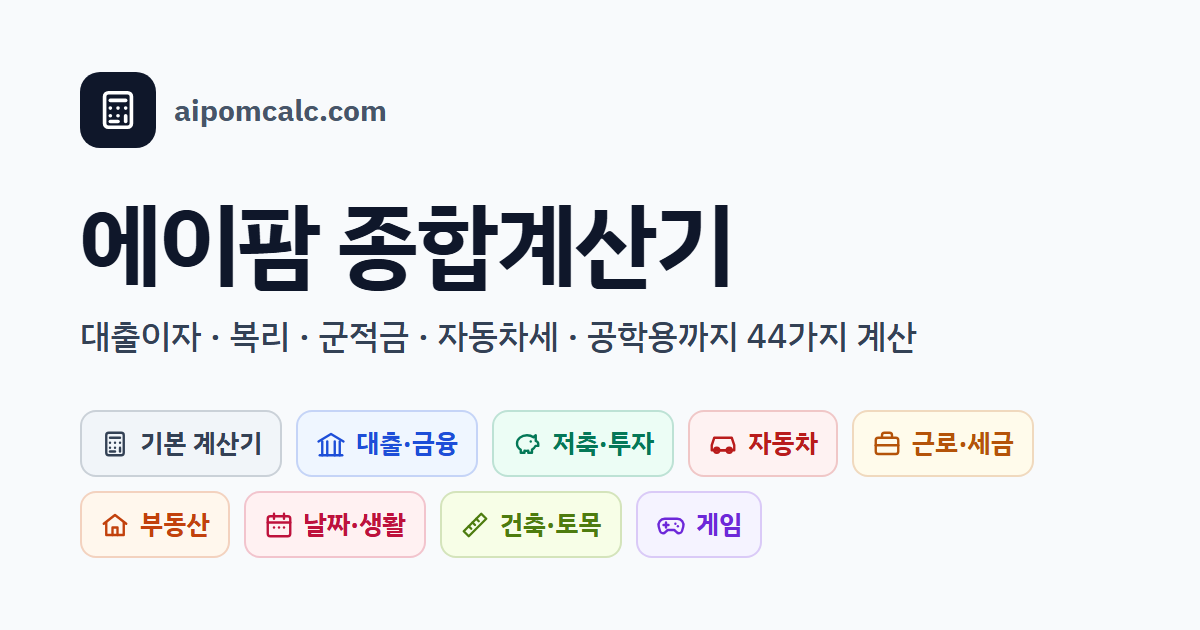
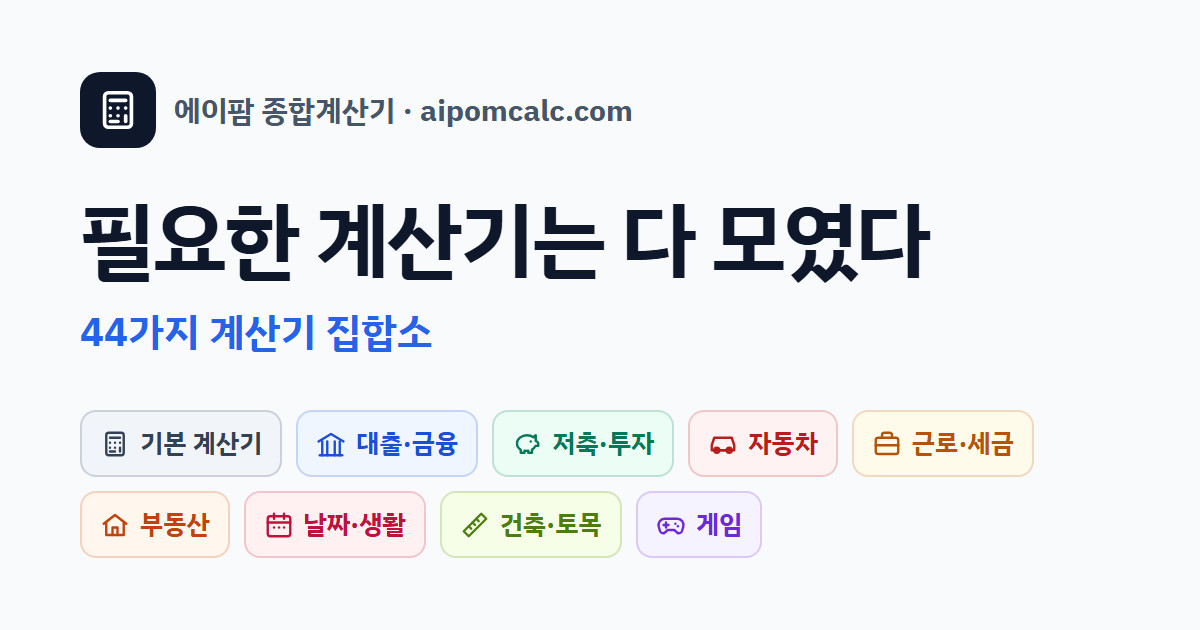
공유 썸네일·설명 '필요한 계산기는 다 모였다, n가지 계산기 집합소'(계산기 수·카테고리 자동), 네이버 서치어드바이저 확인 태그

Changed region(s): [[0.0617, 0.3016, 0.7708, 0.573], [0.1233, 0.1508, 0.5242, 0.2111]]

diff --git a/image/index.html b/image/index.html
@@ -22,7 +22,7 @@
 <link rel="preconnect" href="https://fonts.googleapis.com"><link rel="preconnect" href="https://fonts.gstatic.com" crossorigin>
 <link href="https://fonts.googleapis.com/css2?family=IBM+Plex+Mono:wght@400;600&family=IBM+Plex+Sans+KR:wght@400;500;600;700&display=swap" rel="stylesheet">
 <link rel="stylesheet" href="/assets/style.css?v=2fa217ef">
-<meta name="google-site-verification" content="8fJsMNjd0sqmaGHMqYhyhjJIt86XgNtRdXpRI8Gaa18">
+<meta name="google-site-verification" content="8fJsMNjd0sqmaGHMqYhyhjJIt86XgNtRdXpRI8Gaa18"><meta name="naver-site-verification" content="13c49a27996e51cb543a0dffee34e67dcaf40787">
 <meta name="google-adsense-account" content="ca-pub-8001197559123230">
 <script async src="https://pagead2.googlesyndication.com/pagead/js/adsbygoogle.js?client=ca-pub-8001197559123230" crossorigin="anonymous"></script>
 <script type="application/ld+json">{"@context":"https://schema.org","@graph":[{"@type":"WebApplication","name":"이미지 계산기","applicationCategory":"FinanceApplication","operatingSystem":"Web","offers":{"@type":"Offer","price":"0","priceCurrency":"KRW"},"url":"https://aipomcalc.com/image/"},{"@type":"FAQPage","mainEntity":[{"@type":"Question","name":"이미지가 어딘가에 저장되거나 전송되나요?","acceptedAnswer":{"@type":"Answer","text":"아니요. 이미지는 브라우저 안에서만 처리되고 서버로 보내지 않으며, 입력값 저장에도 포함되지 않습니다. 페이지를 닫으면 사라집니다."}},{"@type":"Question","name":"어떤 계산기를 쓸 수 있나요?","acceptedAnswer":{"@type":"Answer","text":"이미지에서 값을 읽거나 잴 수 있는 계산만 목록에 있습니다. 영수증·부가세·할인가·전기요금·FC 이적시장(숫자 읽기), 글자 수·디데이(글자·날짜 읽기), 길이·면적·경사(이미지 위에서 재기)입니다."}},{"@type":"Question","name":"숫자를 잘못 읽었어요.","acceptedAnswer":{"@type":"Answer","text":"찾은 값 중 맞는 것을 누르거나 칸에 직접 고쳐 쓰세요. 이미지에서 필요한 부분만 상자로 감싸면 그 부분만 다시 읽어 더 정확합니다."}},{"@type":"Question","name":"처음 읽을 때 왜 오래 걸리나요?","acceptedAnswer":{"@type":"Answer","text":"처음 한 번 글자 인식 엔진과 한국어 데이터를 내려받기 때문입니다. 그다음부터는 브라우저에 남아 빨라집니다."}},{"@type":"Question","name":"길이·면적은 얼마나 정확한가요?","acceptedAnswer":{"@type":"Answer","text":"정면 사진이나 사각형 기준을 쓰면 실제와 몇 % 이내로 맞는 편입니다. 점을 찍을 때 확대 창을 보며 모서리에 정확히 놓을수록 오차가 줄어듭니다."}}]},{"@type":"BreadcrumbList","itemListElement":[{"@type":"ListItem","position":1,"name":"홈","item":"https://aipomcalc.com/"},{"@type":"ListItem","position":2,"name":"기본 계산기","item":"https://aipomcalc.com/#basic"},{"@type":"ListItem","position":3,"name":"이미지 계산기","item":"https://aipomcalc.com/image/"}]}]}</script>

diff --git a/index.html b/index.html
@@ -14,7 +14,7 @@
 <meta name="description" content="대출이자, 적금·복리, 군적금, 자동차 할부·자동차세, 퇴직금, 디데이, 공학용 계산기까지 생활 계산을 한곳에서. 그래프와 표로 바로 비교하세요.">
 <link rel="canonical" href="https://aipomcalc.com/">
 <meta property="og:type" content="website"><meta property="og:site_name" content="에이팜 종합계산기"><meta property="og:locale" content="ko_KR">
-<meta property="og:title" content="에이팜 종합계산기 — 대출이자·적금·복리·군적금·자동차세·퇴직금·공학용 계산기"><meta property="og:description" content="대출이자, 적금·복리, 군적금, 자동차 할부·자동차세, 퇴직금, 디데이, 공학용 계산기까지 생활 계산을 한곳에서. 그래프와 표로 바로 비교하세요."><meta property="og:url" content="https://aipomcalc.com/">
+<meta property="og:title" content="에이팜 종합계산기 — 대출이자·적금·복리·군적금·자동차세·퇴직금·공학용 계산기"><meta property="og:description" content="필요한 계산기는 다 모였다, 44가지 계산기 집합소"><meta property="og:url" content="https://aipomcalc.com/">
 <meta property="og:image" content="https://aipomcalc.com/assets/og.png"><meta property="og:image:alt" content="홈"><meta property="og:image:width" content="1200"><meta property="og:image:height" content="630"><meta name="twitter:card" content="summary_large_image">
 <link rel="icon" href="/assets/icon.svg" type="image/svg+xml"><link rel="icon" href="/assets/icon-32.png" sizes="32x32"><link rel="apple-touch-icon" href="/assets/icon-180.png">
 <link rel="manifest" href="/manifest.webmanifest"><meta name="theme-color" content="#0f172a">
@@ -22,7 +22,7 @@
 <link rel="preconnect" href="https://fonts.googleapis.com"><link rel="preconnect" href="https://fonts.gstatic.com" crossorigin>
 <link href="https://fonts.googleapis.com/css2?family=IBM+Plex+Mono:wght@400;600&family=IBM+Plex+Sans+KR:wght@400;500;600;700&display=swap" rel="stylesheet">
 <link rel="stylesheet" href="/assets/style.css?v=2fa217ef">
-<meta name="google-site-verification" content="8fJsMNjd0sqmaGHMqYhyhjJIt86XgNtRdXpRI8Gaa18">
+<meta name="google-site-verification" content="8fJsMNjd0sqmaGHMqYhyhjJIt86XgNtRdXpRI8Gaa18"><meta name="naver-site-verification" content="13c49a27996e51cb543a0dffee34e67dcaf40787">
 <meta name="google-adsense-account" content="ca-pub-8001197559123230">
 <script async src="https://pagead2.googlesyndication.com/pagead/js/adsbygoogle.js?client=ca-pub-8001197559123230" crossorigin="anonymous"></script>
 <script type="application/ld+json">{"@context":"https://schema.org","@type":"WebSite","name":"에이팜 종합계산기","url":"https://aipomcalc.com/"}</script>

diff --git a/fc-transfer/index.html b/fc-transfer/index.html
@@ -22,7 +22,7 @@
 <link rel="preconnect" href="https://fonts.googleapis.com"><link rel="preconnect" href="https://fonts.gstatic.com" crossorigin>
 <link href="https://fonts.googleapis.com/css2?family=IBM+Plex+Mono:wght@400;600&family=IBM+Plex+Sans+KR:wght@400;500;600;700&display=swap" rel="stylesheet">
 <link rel="stylesheet" href="/assets/style.css?v=2fa217ef">
-<meta name="google-site-verification" content="8fJsMNjd0sqmaGHMqYhyhjJIt86XgNtRdXpRI8Gaa18">
+<meta name="google-site-verification" content="8fJsMNjd0sqmaGHMqYhyhjJIt86XgNtRdXpRI8Gaa18"><meta name="naver-site-verification" content="13c49a27996e51cb543a0dffee34e67dcaf40787">
 <meta name="google-adsense-account" content="ca-pub-8001197559123230">
 <script async src="https://pagead2.googlesyndication.com/pagead/js/adsbygoogle.js?client=ca-pub-8001197559123230" crossorigin="anonymous"></script>
 <script type="application/ld+json">{"@context":"https://schema.org","@graph":[{"@type":"WebApplication","name":"FC 온라인 이적시장 수수료 계산기","applicationCategory":"FinanceApplication","operatingSystem":"Web","offers":{"@type":"Offer","price":"0","priceCurrency":"KRW"},"url":"https://aipomcalc.com/fc-transfer/"},{"@type":"FAQPage","mainEntity":[{"@type":"Question","name":"FC 온라인 이적시장 수수료는 몇 %인가요?","acceptedAnswer":{"@type":"Answer","text":"기본 수수료는 판매 금액의 40%입니다. 1억 BP에 팔리면 4,000만 BP가 수수료로 빠지고 6,000만 BP를 받습니다."}},{"@type":"Question","name":"PC방과 TOP CLASS 할인은 같이 받을 수 있나요?","acceptedAnswer":{"@type":"Answer","text":"네. 프리미엄 PC방 30%와 TOP CLASS 20%가 더해져 기본 수수료의 50%가 할인됩니다. 1억 BP 판매라면 수수료가 2,000만 BP로 줄어 8,000만 BP를 받습니다."}},{"@type":"Question","name":"쿠폰을 PC방·TOP CLASS와 같이 쓰면?","acceptedAnswer":{"@type":"Answer","text":"할인율이 더해지되 합계 100%까지만 인정됩니다. 50% 할인을 받는 상태에서 50% 쿠폰을 쓰면 수수료가 0이 되고, 그보다 큰 쿠폰은 효과가 같습니다."}},{"@type":"Question","name":"최대 할인 금액은 어떻게 적용되나요?","acceptedAnswer":{"@type":"Answer","text":"쿠폰으로 깎이는 금액이 쿠폰에 적힌 최대 할인 금액을 넘으면 최대 할인 금액만큼만 깎입니다."}}]},{"@type":"BreadcrumbList","itemListElement":[{"@type":"ListItem","position":1,"name":"홈","item":"https://aipomcalc.com/"},{"@type":"ListItem","position":2,"name":"게임","item":"https://aipomcalc.com/#game"},{"@type":"ListItem","position":3,"name":"FC 온라인 이적시장 수수료 계산기","item":"https://aipomcalc.com/fc-transfer/"}]}]}</script>

diff --git a/year-end-tax/index.html b/year-end-tax/index.html
@@ -22,7 +22,7 @@
 <link rel="preconnect" href="https://fonts.googleapis.com"><link rel="preconnect" href="https://fonts.gstatic.com" crossorigin>
 <link href="https://fonts.googleapis.com/css2?family=IBM+Plex+Mono:wght@400;600&family=IBM+Plex+Sans+KR:wght@400;500;600;700&display=swap" rel="stylesheet">
 <link rel="stylesheet" href="/assets/style.css?v=2fa217ef">
-<meta name="google-site-verification" content="8fJsMNjd0sqmaGHMqYhyhjJIt86XgNtRdXpRI8Gaa18">
+<meta name="google-site-verification" content="8fJsMNjd0sqmaGHMqYhyhjJIt86XgNtRdXpRI8Gaa18"><meta name="naver-site-verification" content="13c49a27996e51cb543a0dffee34e67dcaf40787">
 <meta name="google-adsense-account" content="ca-pub-8001197559123230">
 <script async src="https://pagead2.googlesyndication.com/pagead/js/adsbygoogle.js?client=ca-pub-8001197559123230" crossorigin="anonymous"></script>
 <script type="application/ld+json">{"@context":"https://schema.org","@graph":[{"@type":"WebApplication","name":"연말정산 환급 계산기","applicationCategory":"FinanceApplication","operatingSystem":"Web","offers":{"@type":"Offer","price":"0","priceCurrency":"KRW"},"url":"https://aipomcalc.com/year-end-tax/"},{"@type":"FAQPage","mainEntity":[{"@type":"Question","name":"회사에서 받은 결과와 다른 이유는?","acceptedAnswer":{"@type":"Answer","text":"이 계산기는 보험료를 총급여로 추정하고 일부 공제를 빼고 계산합니다. 정확한 값은 1월 홈택스 연말정산 간소화 자료로 회사가 계산한 원천징수영수증에서 확인하세요."}},{"@type":"Question","name":"맞벌이면 카드를 누구에게 몰아야 하나요?","acceptedAnswer":{"@type":"Answer","text":"보통 카드 공제는 25% 문턱을 넘기 쉬운 쪽(총급여가 낮은 쪽)이 유리합니다. 다만 세율이 높은 쪽이 같은 공제로 더 많이 돌려받으니, 두 사람 값을 각각 넣어 비교해 보세요."}},{"@type":"Question","name":"결정세액이 0원이면 연금저축을 더 넣어도 되나요?","acceptedAnswer":{"@type":"Answer","text":"세액공제는 낼 세금(결정세액)까지만 빼 줍니다. 결정세액이 이미 0원이면 더 넣어도 올해 환급은 늘지 않습니다."}}]},{"@type":"BreadcrumbList","itemListElement":[{"@type":"ListItem","position":1,"name":"홈","item":"https://aipomcalc.com/"},{"@type":"ListItem","position":2,"name":"근로·세금","item":"https://aipomcalc.com/#work"},{"@type":"ListItem","position":3,"name":"연말정산 환급 계산기","item":"https://aipomcalc.com/year-end-tax/"}]}]}</script>

diff --git a/wage/index.html b/wage/index.html
@@ -22,7 +22,7 @@
 <link rel="preconnect" href="https://fonts.googleapis.com"><link rel="preconnect" href="https://fonts.gstatic.com" crossorigin>
 <link href="https://fonts.googleapis.com/css2?family=IBM+Plex+Mono:wght@400;600&family=IBM+Plex+Sans+KR:wght@400;500;600;700&display=swap" rel="stylesheet">
 <link rel="stylesheet" href="/assets/style.css?v=2fa217ef">
-<meta name="google-site-verification" content="8fJsMNjd0sqmaGHMqYhyhjJIt86XgNtRdXpRI8Gaa18">
+<meta name="google-site-verification" content="8fJsMNjd0sqmaGHMqYhyhjJIt86XgNtRdXpRI8Gaa18"><meta name="naver-site-verification" content="13c49a27996e51cb543a0dffee34e67dcaf40787">
 <meta name="google-adsense-account" content="ca-pub-8001197559123230">
 <script async src="https://pagead2.googlesyndication.com/pagead/js/adsbygoogle.js?client=ca-pub-8001197559123230" crossorigin="anonymous"></script>
 <script type="application/ld+json">{"@context":"https://schema.org","@graph":[{"@type":"WebApplication","name":"시급·주휴수당 계산기","applicationCategory":"FinanceApplication","operatingSystem":"Web","offers":{"@type":"Offer","price":"0","priceCurrency":"KRW"},"url":"https://aipomcalc.com/wage/"},{"@type":"FAQPage","mainEntity":[{"@type":"Question","name":"4대보험 안 드는 경우도 있나요?","acceptedAnswer":{"@type":"Answer","text":"한 달 소정근로가 60시간 미만이면 국민연금·건강보험 직장가입 대상에서 원칙적으로 빠집니다. 고용보험은 3개월 이상 계속 일하면 가입합니다. 60세 이상은 국민연금을 떼지 않습니다."}},{"@type":"Question","name":"3.3% 떼면 주휴수당이 없나요?","acceptedAnswer":{"@type":"Answer","text":"세금 방식과 상관없이 실제로 회사 지시를 받으며 정해진 시간에 일했다면 근로자로 인정돼 주휴수당·4대보험 대상일 수 있습니다. 고용노동부(국번 없이 1350)에 문의하세요."}},{"@type":"Question","name":"회사 계산과 다른 이유는?","acceptedAnswer":{"@type":"Answer","text":"소득세는 간이세액표 추정치이고, 근무일 수가 달마다 달라 월급이 조금씩 차이 날 수 있습니다."}}]},{"@type":"BreadcrumbList","itemListElement":[{"@type":"ListItem","position":1,"name":"홈","item":"https://aipomcalc.com/"},{"@type":"ListItem","position":2,"name":"근로·세금","item":"https://aipomcalc.com/#work"},{"@type":"ListItem","position":3,"name":"시급·주휴수당 계산기","item":"https://aipomcalc.com/wage/"}]}]}</script>

diff --git a/parental-leave/index.html b/parental-leave/index.html
@@ -22,7 +22,7 @@
 <link rel="preconnect" href="https://fonts.googleapis.com"><link rel="preconnect" href="https://fonts.gstatic.com" crossorigin>
 <link href="https://fonts.googleapis.com/css2?family=IBM+Plex+Mono:wght@400;600&family=IBM+Plex+Sans+KR:wght@400;500;600;700&display=swap" rel="stylesheet">
 <link rel="stylesheet" href="/assets/style.css?v=2fa217ef">
-<meta name="google-site-verification" content="8fJsMNjd0sqmaGHMqYhyhjJIt86XgNtRdXpRI8Gaa18">
+<meta name="google-site-verification" content="8fJsMNjd0sqmaGHMqYhyhjJIt86XgNtRdXpRI8Gaa18"><meta name="naver-site-verification" content="13c49a27996e51cb543a0dffee34e67dcaf40787">
 <meta name="google-adsense-account" content="ca-pub-8001197559123230">
 <script async src="https://pagead2.googlesyndication.com/pagead/js/adsbygoogle.js?client=ca-pub-8001197559123230" crossorigin="anonymous"></script>
 <script type="application/ld+json">{"@context":"https://schema.org","@graph":[{"@type":"WebApplication","name":"육아휴직 급여 계산기","applicationCategory":"FinanceApplication","operatingSystem":"Web","offers":{"@type":"Offer","price":"0","priceCurrency":"KRW"},"url":"https://aipomcalc.com/parental-leave/"},{"@type":"FAQPage","mainEntity":[{"@type":"Question","name":"통상임금이 높으면 얼마까지 받나요?","acceptedAnswer":{"@type":"Answer","text":"일반 육아휴직이면 1~3개월 250만, 4~6개월 200만, 7개월째부터 160만 원이 최대입니다. 1년을 쓰면 최대 2,310만 원입니다."}},{"@type":"Question","name":"6+6은 부모가 꼭 6개월씩 써야 하나요?","acceptedAnswer":{"@type":"Answer","text":"아닙니다. 부모가 공통으로 쓴 기간만큼 적용됩니다. 둘 다 3개월씩 쓰면 첫 3개월에만 높은 상한이 붙습니다."}},{"@type":"Question","name":"휴직 중에 아르바이트를 해도 되나요?","acceptedAnswer":{"@type":"Answer","text":"주 15시간 이상 일하거나 한 달 소득이 150만 원 이상이면 급여가 제한됩니다. 신청할 때 반드시 적어야 하며, 숨기면 부정수급이 됩니다."}}]},{"@type":"BreadcrumbList","itemListElement":[{"@type":"ListItem","position":1,"name":"홈","item":"https://aipomcalc.com/"},{"@type":"ListItem","position":2,"name":"근로·세금","item":"https://aipomcalc.com/#work"},{"@type":"ListItem","position":3,"name":"육아휴직 급여 계산기","item":"https://aipomcalc.com/parental-leave/"}]}]}</script>

diff --git a/home-acq-tax/index.html b/home-acq-tax/index.html
@@ -22,7 +22,7 @@
 <link rel="preconnect" href="https://fonts.googleapis.com"><link rel="preconnect" href="https://fonts.gstatic.com" crossorigin>
 <link href="https://fonts.googleapis.com/css2?family=IBM+Plex+Mono:wght@400;600&family=IBM+Plex+Sans+KR:wght@400;500;600;700&display=swap" rel="stylesheet">
 <link rel="stylesheet" href="/assets/style.css?v=2fa217ef">
-<meta name="google-site-verification" content="8fJsMNjd0sqmaGHMqYhyhjJIt86XgNtRdXpRI8Gaa18">
+<meta name="google-site-verification" content="8fJsMNjd0sqmaGHMqYhyhjJIt86XgNtRdXpRI8Gaa18"><meta name="naver-site-verification" content="13c49a27996e51cb543a0dffee34e67dcaf40787">
 <meta name="google-adsense-account" content="ca-pub-8001197559123230">
 <script async src="https://pagead2.googlesyndication.com/pagead/js/adsbygoogle.js?client=ca-pub-8001197559123230" crossorigin="anonymous"></script>
 <script type="application/ld+json">{"@context":"https://schema.org","@graph":[{"@type":"WebApplication","name":"주택 취득세 계산기","applicationCategory":"FinanceApplication","operatingSystem":"Web","offers":{"@type":"Offer","price":"0","priceCurrency":"KRW"},"url":"https://aipomcalc.com/home-acq-tax/"},{"@type":"FAQPage","mainEntity":[{"@type":"Question","name":"7억 아파트 취득세는 얼마인가요?","acceptedAnswer":{"@type":"Answer","text":"1주택이고 전용 85㎡ 이하면 취득세 1,169만 원(1.67%)과 지방교육세 116만 9천 원을 더해 약 1,286만 원입니다."}},{"@type":"Question","name":"조정대상지역은 어디인가요?","acceptedAnswer":{"@type":"Answer","text":"국토교통부가 지정·해제합니다. 지정 현황이 바뀔 수 있으니 계약 전에 국토교통부 발표나 해당 시·군·구청에 확인하세요."}},{"@type":"Question","name":"생애최초 감면을 받으면 지켜야 할 것이 있나요?","acceptedAnswer":{"@type":"Answer","text":"실거주 목적이어야 하고, 산 뒤 3년 안에 팔거나 증여하거나 임대하면 감면받은 취득세를 다시 냅니다."}}]},{"@type":"BreadcrumbList","itemListElement":[{"@type":"ListItem","position":1,"name":"홈","item":"https://aipomcalc.com/"},{"@type":"ListItem","position":2,"name":"부동산","item":"https://aipomcalc.com/#home"},{"@type":"ListItem","position":3,"name":"주택 취득세 계산기","item":"https://aipomcalc.com/home-acq-tax/"}]}]}</script>

diff --git a/refinance/index.html b/refinance/index.html
@@ -22,7 +22,7 @@
 <link rel="preconnect" href="https://fonts.googleapis.com"><link rel="preconnect" href="https://fonts.gstatic.com" crossorigin>
 <link href="https://fonts.googleapis.com/css2?family=IBM+Plex+Mono:wght@400;600&family=IBM+Plex+Sans+KR:wght@400;500;600;700&display=swap" rel="stylesheet">
 <link rel="stylesheet" href="/assets/style.css?v=2fa217ef">
-<meta name="google-site-verification" content="8fJsMNjd0sqmaGHMqYhyhjJIt86XgNtRdXpRI8Gaa18">
+<meta name="google-site-verification" content="8fJsMNjd0sqmaGHMqYhyhjJIt86XgNtRdXpRI8Gaa18"><meta name="naver-site-verification" content="13c49a27996e51cb543a0dffee34e67dcaf40787">
 <meta name="google-adsense-account" content="ca-pub-8001197559123230">
 <script async src="https://pagead2.googlesyndication.com/pagead/js/adsbygoogle.js?client=ca-pub-8001197559123230" crossorigin="anonymous"></script>
 <script type="application/ld+json">{"@context":"https://schema.org","@graph":[{"@type":"WebApplication","name":"대출 갈아타기 계산기","applicationCategory":"FinanceApplication","operatingSystem":"Web","offers":{"@type":"Offer","price":"0","priceCurrency":"KRW"},"url":"https://aipomcalc.com/refinance/"},{"@type":"FAQPage","mainEntity":[{"@type":"Question","name":"어디서 갈아타나요?","acceptedAnswer":{"@type":"Answer","text":"금융위원회 대환대출 인프라(은행 앱 \"대출 갈아타기\")에서 비교·신청할 수 있습니다."}},{"@type":"Question","name":"본전 회수 기간이 뭔가요?","acceptedAnswer":{"@type":"Answer","text":"갈아탈 때 드는 수수료와 비용을 줄어든 월 상환액으로 나눈 기간입니다. 이보다 오래 갚을 계획이면 이득입니다."}},{"@type":"Question","name":"수수료 부과 기간이 곧 끝나면?","acceptedAnswer":{"@type":"Answer","text":"몇 달만 기다리면 수수료가 줄거나 없어지므로 기다렸다 갈아타는 편이 나을 수 있습니다. \"부과 기간 남은 개월\"을 바꿔 비교해 보세요."}}]},{"@type":"BreadcrumbList","itemListElement":[{"@type":"ListItem","position":1,"name":"홈","item":"https://aipomcalc.com/"},{"@type":"ListItem","position":2,"name":"대출·금융","item":"https://aipomcalc.com/#loan"},{"@type":"ListItem","position":3,"name":"대출 갈아타기 계산기","item":"https://aipomcalc.com/refinance/"}]}]}</script>

diff --git a/stairs/index.html b/stairs/index.html
@@ -22,7 +22,7 @@
 <link rel="preconnect" href="https://fonts.googleapis.com"><link rel="preconnect" href="https://fonts.gstatic.com" crossorigin>
 <link href="https://fonts.googleapis.com/css2?family=IBM+Plex+Mono:wght@400;600&family=IBM+Plex+Sans+KR:wght@400;500;600;700&display=swap" rel="stylesheet">
 <link rel="stylesheet" href="/assets/style.css?v=2fa217ef">
-<meta name="google-site-verification" content="8fJsMNjd0sqmaGHMqYhyhjJIt86XgNtRdXpRI8Gaa18">
+<meta name="google-site-verification" content="8fJsMNjd0sqmaGHMqYhyhjJIt86XgNtRdXpRI8Gaa18"><meta name="naver-site-verification" content="13c49a27996e51cb543a0dffee34e67dcaf40787">
 <meta name="google-adsense-account" content="ca-pub-8001197559123230">
 <script async src="https://pagead2.googlesyndication.com/pagead/js/adsbygoogle.js?client=ca-pub-8001197559123230" crossorigin="anonymous"></script>
 <script type="application/ld+json">{"@context":"https://schema.org","@graph":[{"@type":"WebApplication","name":"계단 계산기","applicationCategory":"FinanceApplication","operatingSystem":"Web","offers":{"@type":"Offer","price":"0","priceCurrency":"KRW"},"url":"https://aipomcalc.com/stairs/"},{"@type":"FAQPage","mainEntity":[{"@type":"Question","name":"단독주택 계단 단높이 기준이 있나요?","acceptedAnswer":{"@type":"Answer","text":"건축물방화구조규칙의 단높이·단너비 수치 기준은 초등학교·중·고등학교에만 있습니다. 그 밖의 건축물은 계단참·난간·유효너비 기준을 지켜야 합니다."}},{"@type":"Question","name":"층고에는 무엇을 넣나요?","acceptedAnswer":{"@type":"Answer","text":"아래층 바닥 마감면부터 위층 바닥 마감면까지의 높이입니다. 마감 두께가 빠지면 마지막 단만 높아집니다."}},{"@type":"Question","name":"계단 수와 디딤판 수가 왜 다르죠?","acceptedAnswer":{"@type":"Answer","text":"마지막 한 단은 위층 바닥을 딛기 때문에 디딤판은 단 수보다 하나 적습니다."}}]},{"@type":"BreadcrumbList","itemListElement":[{"@type":"ListItem","position":1,"name":"홈","item":"https://aipomcalc.com/"},{"@type":"ListItem","position":2,"name":"건축·토목","item":"https://aipomcalc.com/#build"},{"@type":"ListItem","position":3,"name":"계단 계산기","item":"https://aipomcalc.com/stairs/"}]}]}</script>

diff --git a/savings/index.html b/savings/index.html
@@ -22,7 +22,7 @@
 <link rel="preconnect" href="https://fonts.googleapis.com"><link rel="preconnect" href="https://fonts.gstatic.com" crossorigin>
 <link href="https://fonts.googleapis.com/css2?family=IBM+Plex+Mono:wght@400;600&family=IBM+Plex+Sans+KR:wght@400;500;600;700&display=swap" rel="stylesheet">
 <link rel="stylesheet" href="/assets/style.css?v=2fa217ef">
-<meta name="google-site-verification" content="8fJsMNjd0sqmaGHMqYhyhjJIt86XgNtRdXpRI8Gaa18">
+<meta name="google-site-verification" content="8fJsMNjd0sqmaGHMqYhyhjJIt86XgNtRdXpRI8Gaa18"><meta name="naver-site-verification" content="13c49a27996e51cb543a0dffee34e67dcaf40787">
 <meta name="google-adsense-account" content="ca-pub-8001197559123230">
 <script async src="https://pagead2.googlesyndication.com/pagead/js/adsbygoogle.js?client=ca-pub-8001197559123230" crossorigin="anonymous"></script>
 <script type="application/ld+json">{"@context":"https://schema.org","@graph":[{"@type":"WebApplication","name":"예금·적금 이자 계산기","applicationCategory":"FinanceApplication","operatingSystem":"Web","offers":{"@type":"Offer","price":"0","priceCurrency":"KRW"},"url":"https://aipomcalc.com/savings/"},{"@type":"FAQPage","mainEntity":[{"@type":"Question","name":"비과세는 누가 받나요?","acceptedAnswer":{"@type":"Answer","text":"상품·가입 자격(나이·소득 등)에 따라 정해집니다. 상품설명서를 확인하세요."}},{"@type":"Question","name":"적금 이자가 생각보다 적은 이유는?","acceptedAnswer":{"@type":"Answer","text":"매달 넣은 돈마다 이자 받는 기간이 달라, 마지막 회차는 1개월 이자만 받기 때문입니다. 12개월 적금의 세전 이자는 총 납입액 × 연 이율 × 13/24 정도입니다."}},{"@type":"Question","name":"예금과 적금 중 어느 쪽 이자가 많나요?","acceptedAnswer":{"@type":"Answer","text":"같은 금리·같은 총액이면 처음부터 전액이 이자를 받는 예금이 더 많습니다."}}]},{"@type":"BreadcrumbList","itemListElement":[{"@type":"ListItem","position":1,"name":"홈","item":"https://aipomcalc.com/"},{"@type":"ListItem","position":2,"name":"저축·투자","item":"https://aipomcalc.com/#save"},{"@type":"ListItem","position":3,"name":"예금·적금 이자 계산기","item":"https://aipomcalc.com/savings/"}]}]}</script>

diff --git a/area-volume/index.html b/area-volume/index.html
@@ -22,7 +22,7 @@
 <link rel="preconnect" href="https://fonts.googleapis.com"><link rel="preconnect" href="https://fonts.gstatic.com" crossorigin>
 <link href="https://fonts.googleapis.com/css2?family=IBM+Plex+Mono:wght@400;600&family=IBM+Plex+Sans+KR:wght@400;500;600;700&display=swap" rel="stylesheet">
 <link rel="stylesheet" href="/assets/style.css?v=2fa217ef">
-<meta name="google-site-verification" content="8fJsMNjd0sqmaGHMqYhyhjJIt86XgNtRdXpRI8Gaa18">
+<meta name="google-site-verification" content="8fJsMNjd0sqmaGHMqYhyhjJIt86XgNtRdXpRI8Gaa18"><meta name="naver-site-verification" content="13c49a27996e51cb543a0dffee34e67dcaf40787">
 <meta name="google-adsense-account" content="ca-pub-8001197559123230">
 <script async src="https://pagead2.googlesyndication.com/pagead/js/adsbygoogle.js?client=ca-pub-8001197559123230" crossorigin="anonymous"></script>
 <script type="application/ld+json">{"@context":"https://schema.org","@graph":[{"@type":"WebApplication","name":"면적·부피 계산기","applicationCategory":"FinanceApplication","operatingSystem":"Web","offers":{"@type":"Offer","price":"0","priceCurrency":"KRW"},"url":"https://aipomcalc.com/area-volume/"},{"@type":"FAQPage","mainEntity":[{"@type":"Question","name":"좌표는 어떤 순서로 넣나요?","acceptedAnswer":{"@type":"Answer","text":"꼭짓점을 둘레를 따라 시계 방향이든 반시계 방향이든 한 방향으로 넣으면 됩니다. 순서가 뒤섞여 변이 서로 교차하면 면적이 틀리게 나옵니다."}},{"@type":"Question","name":"평수 계산기와 무엇이 다른가요?","acceptedAnswer":{"@type":"Answer","text":"평수 계산기는 이미 아는 면적을 ㎡↔평으로 바꿉니다. 이 계산기는 치수나 좌표로 면적·부피 자체를 구합니다."}},{"@type":"Question","name":"단위가 cm면요?","acceptedAnswer":{"@type":"Answer","text":"모든 칸은 m 단위입니다. 30cm는 0.3, 1,500mm는 1.5로 넣으세요."}}]},{"@type":"BreadcrumbList","itemListElement":[{"@type":"ListItem","position":1,"name":"홈","item":"https://aipomcalc.com/"},{"@type":"ListItem","position":2,"name":"건축·토목","item":"https://aipomcalc.com/#build"},{"@type":"ListItem","position":3,"name":"면적·부피 계산기","item":"https://aipomcalc.com/area-volume/"}]}]}</script>

diff --git a/avgprice/index.html b/avgprice/index.html
@@ -22,7 +22,7 @@
 <link rel="preconnect" href="https://fonts.googleapis.com"><link rel="preconnect" href="https://fonts.gstatic.com" crossorigin>
 <link href="https://fonts.googleapis.com/css2?family=IBM+Plex+Mono:wght@400;600&family=IBM+Plex+Sans+KR:wght@400;500;600;700&display=swap" rel="stylesheet">
 <link rel="stylesheet" href="/assets/style.css?v=2fa217ef">
-<meta name="google-site-verification" content="8fJsMNjd0sqmaGHMqYhyhjJIt86XgNtRdXpRI8Gaa18">
+<meta name="google-site-verification" content="8fJsMNjd0sqmaGHMqYhyhjJIt86XgNtRdXpRI8Gaa18"><meta name="naver-site-verification" content="13c49a27996e51cb543a0dffee34e67dcaf40787">
 <meta name="google-adsense-account" content="ca-pub-8001197559123230">
 <script async src="https://pagead2.googlesyndication.com/pagead/js/adsbygoogle.js?client=ca-pub-8001197559123230" crossorigin="anonymous"></script>
 <script type="application/ld+json">{"@context":"https://schema.org","@graph":[{"@type":"WebApplication","name":"평단가(물타기) 계산기","applicationCategory":"FinanceApplication","operatingSystem":"Web","offers":{"@type":"Offer","price":"0","priceCurrency":"KRW"},"url":"https://aipomcalc.com/avgprice/"},{"@type":"FAQPage","mainEntity":[{"@type":"Question","name":"평단가는 어떻게 계산하나요?","acceptedAnswer":{"@type":"Answer","text":"총 매입액을 총 수량으로 나눕니다. 1만 원에 10주, 8천 원에 10주를 샀다면 평단가는 9천 원입니다."}},{"@type":"Question","name":"수수료와 세금도 포함되나요?","acceptedAnswer":{"@type":"Answer","text":"아니요. 매매 수수료와 세금은 빠져 있어 실제 손익은 증권사 앱에서 확인하세요."}},{"@type":"Question","name":"물타기를 하면 무조건 유리한가요?","acceptedAnswer":{"@type":"Answer","text":"평단가는 내려가지만 투자 금액과 위험도 함께 커집니다. 이 계산기는 계산 도구이며 투자 권유가 아닙니다."}}]},{"@type":"BreadcrumbList","itemListElement":[{"@type":"ListItem","position":1,"name":"홈","item":"https://aipomcalc.com/"},{"@type":"ListItem","position":2,"name":"저축·투자","item":"https://aipomcalc.com/#save"},{"@type":"ListItem","position":3,"name":"평단가(물타기) 계산기","item":"https://aipomcalc.com/avgprice/"}]}]}</script>
